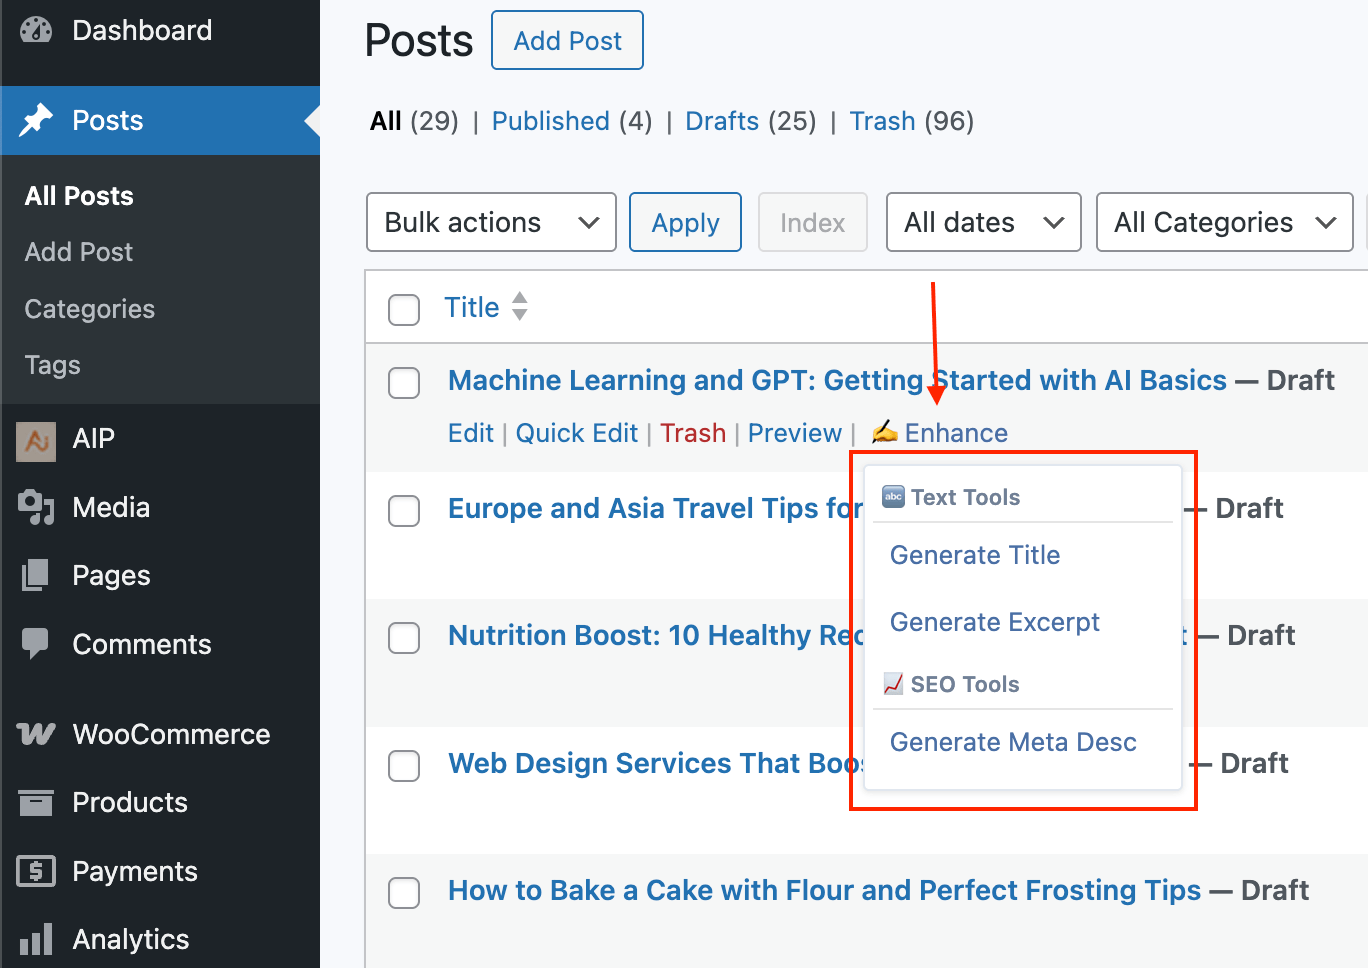
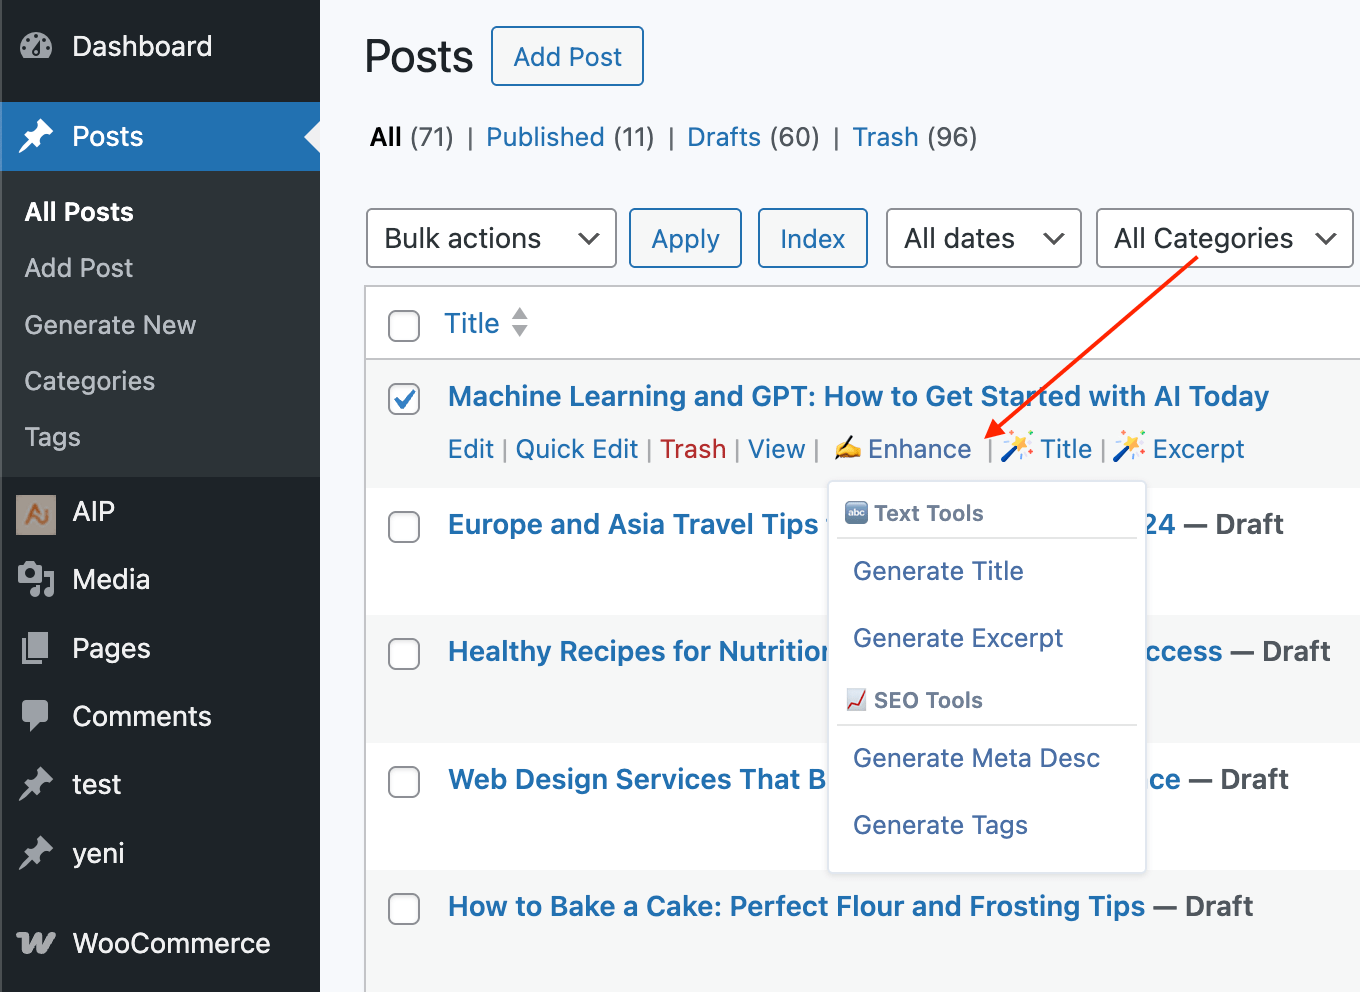
tag generation added

diff --git a/docs/Automate/content-creation.md b/docs/Automate/content-creation.md
@@ -20,6 +20,7 @@ import contextenable from '/img/automate/context-enable.png';
 import metacc from '/img/automate/meta.png';
 import focuscc from '/img/automate/focus.png';
 import excerptcc from '/img/automate/excerpt.png';
+import tagscc from '/img/write/tags.png';
 import toccc from '/img/automate/toc.png';
 import enableimage from '/img/automate/enable-image.png';
 import replicateaddon from '/img/chat/replicate-addon.png';
@@ -156,9 +157,13 @@ Optimize your content for search engines by automatically generating SEO element
 
 <img src={focuscc} width="600"  />
 
-- **Excerpt**: Generates a custom post excerpt, which is used by your WordPress theme on archive pages.
+- **Excerpt**: Generates a custom post excerpt, which is used by your WordPress theme on archive pages or blog rolls.
 
 <img src={excerptcc} width="600"  />
+
+- **Tags**: Generates a comma-separated list of relevant tags for your post.
+
+<img src={tagscc} width="600"/>
 
 - **Table of Contents**: When checked, a Table of Contents block will be automatically inserted at the beginning of your article based on the `<h2>` and `<h3>` headings.
 
@@ -229,7 +234,7 @@ Pixabay is another excellent source for free stock photos that can be integrated
 
 1. Go to **AIP > Add-ons** and enable the **Stock Images** addon (if not already enabled).
 
-<img src={stockimagesaddon} />
+<img src={stockimagesaddon} width="600"/>
 
 2. Go to **AIP > Dashboard > Integrations** and enter your Pixabay API key.
 

diff --git a/docs/content-assistant.md b/docs/content-assistant.md
@@ -57,7 +57,7 @@ This will open the **Content Assistant** modal, where you can configure the AI e
 
 <img src={cacontext} />
 
--   **Prompts**: Check the box for each field you want the AI to update (Title, Excerpt, Content, Meta Description, Focus Keyword). For each selected field, a tab will appear where you can write a custom prompt. Use placeholders like `{original_title}` and `{original_content}` to provide the AI with the post's existing data.
+-   **Prompts**: Check the box for each field you want the AI to update (Title, Excerpt, Content, Tags, Meta Description, Focus Keyword). For each selected field, a tab will appear where you can write a custom prompt. Use placeholders like `{original_title}` and `{original_content}` to provide the AI with the post's existing data.
 
 <img src={caprompts} />
 
@@ -77,7 +77,7 @@ For single-post improvements, you can use the "Enhance" link directly from the p
 
 <img src={caenhance} width="600" />
 
-4.  Select an action, such as **Generate Title**, **Generate Excerpt**, or **Generate Meta Desc**.
+4.  Select an action, such as **Generate Title**, **Generate Excerpt**, **Generate Tags** or **Generate Meta Desc**.
 
 A modal will appear with several AI-generated suggestions. Click any suggestion to apply it to the post instantly.
 

diff --git a/docs/Write/seo.md b/docs/Write/seo.md
@@ -7,6 +7,7 @@ import seo from '/img/write/seo.png';
 import meta from '/img/write/meta.png';
 import focus from '/img/write/focus.png';
 import excerpt from '/img/write/excerpt.png';
+import tagscc from '/img/write/tags.png';
 import tocsettings from '/img/write/toc.png';
 
 # SEO
@@ -60,6 +61,15 @@ When checked, the AI will generate a custom post excerpt. This is separate from 
 <img src={excerpt} />
 
 -   **Custom Prompt**: Provide instructions for how the excerpt should be written.
+-   **Available Placeholders**: `{topic}`, `{content_summary}`
+
+### Tags
+
+Generates a comma-separated list of relevant tags for your post.
+
+<img src={tagscc} />
+
+-   **Custom Prompt**: Write instructions for generating the tags.
 -   **Available Placeholders**: `{topic}`, `{content_summary}`
 
 ## Structure
